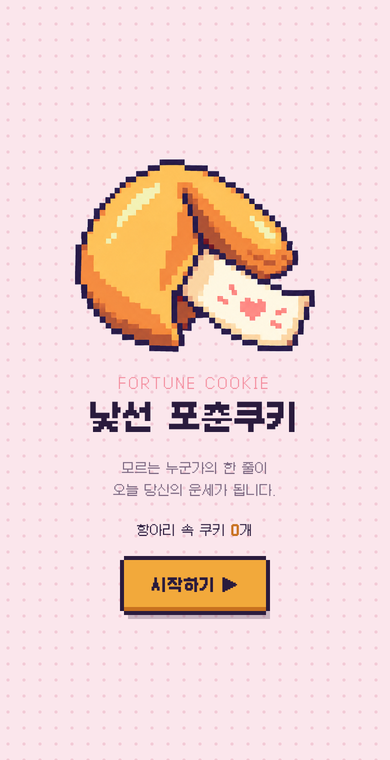
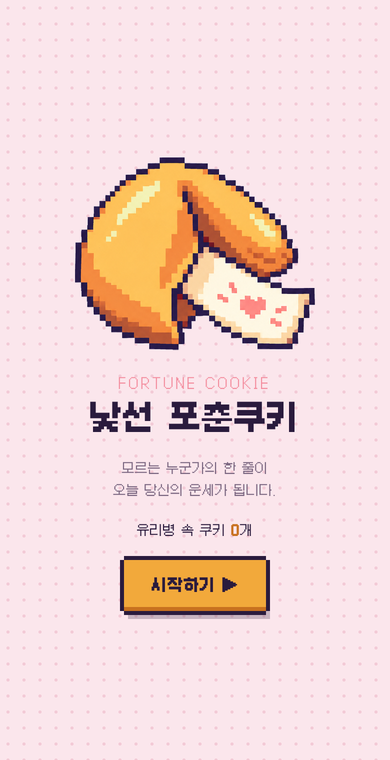
'항아리'를 '유리병'으로 용어 변경 (화면, API 주석, README, 스크린샷)
Claude-Session: https://claude.ai/code/session_019H48sgWEPCeJ89SP3p48pL

Changed region(s): [[0.1846, 0.1816, 0.8, 0.4842], [0.3385, 0.6658, 0.4615, 0.7263], [0.2769, 0.3026, 0.3077, 0.3329]]

diff --git a/index.html b/index.html
@@ -154,7 +154,7 @@ textarea::placeholder{color:#B7A6BB}
     <img class="cookie-img bob" src="assets/cookie.png" alt="쪽지가 삐져나온 포춘쿠키">
     <h1 id="t0"><small>FORTUNE COOKIE</small>낯선 포춘쿠키</h1>
     <p class="muted">모르는 누군가의 한 줄이<br>오늘 당신의 운세가 됩니다.</p>
-    <p class="jar">항아리 속 쿠키 <b id="jarCount">–</b>개</p>
+    <p class="jar">유리병 속 쿠키 <b id="jarCount">–</b>개</p>
     <button class="btn" id="start">시작하기 ▶</button>
   </section>
 
@@ -176,21 +176,21 @@ textarea::placeholder{color:#B7A6BB}
     <button class="btn" id="put" disabled>쿠키에 넣기</button>
   </section>
 
-  <!-- 1.5 항아리 -->
+  <!-- 1.5 유리병 -->
   <section class="screen" id="sJ" hidden aria-labelledby="tJ">
-    <h2 id="tJ">항아리에 쏙!</h2>
+    <h2 id="tJ">유리병에 쏙!</h2>
     <div class="jar-stage" id="jarStage">
-      <img class="jar-img" src="assets/jar.png" alt="포춘쿠키가 가득 든 유리 항아리">
+      <img class="jar-img" src="assets/jar.png" alt="포춘쿠키가 가득 든 유리병">
       <img class="drop" src="assets/cookie.png" alt="">
     </div>
-    <p class="mixing">항아리 속 쿠키 <b id="jarCount2">–</b>개<br>모르는 사람들의 쿠키와 섞는 중…</p>
+    <p class="mixing">유리병 속 쿠키 <b id="jarCount2">–</b>개<br>모르는 사람들의 쿠키와 섞는 중…</p>
   </section>
 
   <!-- 1.7 깰 쿠키 없음 -->
   <section class="screen" id="sE" hidden aria-labelledby="tE">
     <img class="empty-img" src="assets/cookie.png" alt="">
     <h2 id="tE">아직 깰 포춘쿠키가 없어요</h2>
-    <p class="empty-note">항아리에 있는 쿠키가 모두 내가 넣은 쿠키예요.<br>다른 사람이 한 줄을 넣으면 깰 수 있어요.</p>
+    <p class="empty-note">유리병에 있는 쿠키가 모두 내가 넣은 쿠키예요.<br>다른 사람이 한 줄을 넣으면 깰 수 있어요.</p>
     <p class="msg" id="emptyMsg" role="status"></p>
     <div class="actions">
       <button class="btn sub" id="back">돌아가기</button>
@@ -295,7 +295,7 @@ textarea::placeholder{color:#B7A6BB}
       justPut=d.id; if(d.count!=null) setJar(d.count);
     }catch(e){
       put.disabled=false;
-      $('putMsg').textContent = e && e.error==='jar_full' ? '항아리가 가득 찼어요.' : '넣지 못했어요. 인터넷 연결을 확인하고 다시 눌러 주세요.';
+      $('putMsg').textContent = e && e.error==='jar_full' ? '유리병이 가득 찼어요.' : '넣지 못했어요. 인터넷 연결을 확인하고 다시 눌러 주세요.';
       return;
     }
     line.value=''; $('count').textContent='0 / 100'; $('putMsg').textContent='';
@@ -420,7 +420,7 @@ textarea::placeholder{color:#B7A6BB}
     catch(e){ busy=false; taps=2; $('taps').children[2].classList.remove('on'); $('crackHint').textContent='꺼내지 못했어요. 한 번 더 두드려 주세요.'; return; }
     if(pick.empty){
       busy=false; taps=2; $('taps').children[2].classList.remove('on'); cookie.classList.add('shake2');
-      $('crackHint').textContent='항아리에 아직 다른 사람의 쿠키가 없어요. 다음 사람이 넣고 나면 다시 두드려 주세요.'; $('actions').hidden=false;
+      $('crackHint').textContent='유리병에 아직 다른 사람의 쿠키가 없어요. 다음 사람이 넣고 나면 다시 두드려 주세요.'; $('actions').hidden=false;
       return;
     }
     seen.push(pick.id);
@@ -436,7 +436,7 @@ textarea::placeholder{color:#B7A6BB}
 
   $('back').addEventListener('click',()=>{ resetCrack(); show(0); if(store===apiStore) apiStore.count().then(setJar).catch(()=>{}); });
   $('recheck').addEventListener('click',async()=>{
-    const b=$('recheck'); b.disabled=true; $('emptyMsg').textContent='항아리를 다시 뒤적이는 중…';
+    const b=$('recheck'); b.disabled=true; $('emptyMsg').textContent='유리병을 다시 뒤적이는 중…';
     let p=null; try{ p=await store.draw(justPut,seen); }catch(e){}
     b.disabled=false;
     if(!p){ $('emptyMsg').textContent='확인하지 못했어요. 인터넷 연결을 확인하고 다시 눌러 주세요.'; return; }

diff --git a/api/cookies.js b/api/cookies.js
@@ -20,7 +20,7 @@ export default async function handler(req, res) {
   }
 
   try {
-    // 항아리 속 쿠키 개수
+    // 유리병 속 쿠키 개수
     if (req.method === "GET" && !req.query.draw) {
       const count = await redis.llen(KEY);
       return res.status(200).json({ count });

diff --git a/README.md b/README.md
@@ -4,7 +4,7 @@
 
 **인터랙티브 미디어 창작 · 우연놀이(알레아) 참여 작품**
 
-관객은 모르는 다음 사람에게 건넬 한 줄을 쿠키에 넣고, 항아리에서 다른 누군가가 넣은 한 줄을 무작위로 꺼내 깨 봅니다. 누가 썼는지는 끝까지 알 수 없습니다.
+관객은 모르는 다음 사람에게 건넬 한 줄을 쿠키에 넣고, 유리병에서 다른 누군가가 넣은 한 줄을 무작위로 꺼내 깨 봅니다. 누가 썼는지는 끝까지 알 수 없습니다.
 
 🔗 **https://fortune-cookie-peach.vercel.app**
 
@@ -12,7 +12,7 @@
   <tr>
     <td align="center"><img src="docs/01-start.png" width="220" alt="시작 화면"><br><sub>1. 시작</sub></td>
     <td align="center"><img src="docs/02-write.png" width="220" alt="한 줄 쓰기 화면"><br><sub>2. 한 줄 쓰기</sub></td>
-    <td align="center"><img src="docs/03-jar.png" width="220" alt="항아리 화면"><br><sub>3. 항아리에 쏙</sub></td>
+    <td align="center"><img src="docs/03-jar.png" width="220" alt="유리병 화면"><br><sub>3. 유리병에 쏙</sub></td>
   </tr>
   <tr>
     <td align="center"><img src="docs/04-crack.png" width="220" alt="쿠키 깨기 화면"><br><sub>4. 쿠키 깨기</sub></td>
@@ -37,11 +37,11 @@
 |---|---|---|
 | 1 | 시작 | 통통 튀는 포춘쿠키를 보고 **시작하기**를 누릅니다. |
 | 2 | 한 줄 쓰기 | 모르는 다음 사람에게 건넬 한 줄(최대 100자)을 적고 **쿠키에 넣기**를 누릅니다. |
-| 3 | 항아리 | 내 쿠키가 항아리에 쏙 떨어지며 다른 사람들의 쿠키와 섞입니다. (자동으로 넘어감) |
+| 3 | 유리병 | 내 쿠키가 유리병에 쏙 떨어지며 다른 사람들의 쿠키와 섞입니다. (자동으로 넘어감) |
 | 4 | 쿠키 깨기 | 쿠키를 **세 번 톡톡** 두드립니다. 두드릴 때마다 흔들리며 금이 갑니다. |
 | 5 | 쪽지 | 쿠키가 갈라지며 다른 사람의 한 줄이 담긴 쪽지가 나옵니다. |
 
-> 항아리에 내 쿠키밖에 없으면 3단계 다음에 **"아직 깰 포춘쿠키가 없어요"** 화면이 나옵니다.
+> 유리병에 내 쿠키밖에 없으면 3단계 다음에 **"아직 깰 포춘쿠키가 없어요"** 화면이 나옵니다.
 > **돌아가기**로 시작 화면에 가거나, 다른 사람이 쿠키를 넣은 뒤 **다시 확인하기**를 누르면 바로 깨기 화면으로 넘어갑니다.
 
 ### 규칙
@@ -52,9 +52,9 @@
 
 ## 주요 기능
 
-- **공용 항아리**: 접속한 모든 사람의 쿠키가 하나의 항아리에 모입니다. 시작 화면에 항아리 속 쿠키 수가 표시됩니다.
+- **공용 유리병**: 접속한 모든 사람의 쿠키가 하나의 유리병에 모입니다. 시작 화면에 유리병 속 쿠키 수가 표시됩니다.
 - **내 쿠키 제외**: 내가 넣은 한 줄은 나에게 뽑히지 않습니다. (아래 [사용자 구분 방식](#사용자-구분-방식) 참고)
-- **미리 확인**: 항아리 장면이 나오는 동안 깰 쿠키가 있는지 미리 확인해서, 없으면 깨기 전에 안내 화면을 보여줍니다.
+- **미리 확인**: 유리병 장면이 나오는 동안 깰 쿠키가 있는지 미리 확인해서, 없으면 깨기 전에 안내 화면을 보여줍니다.
 - **중복 줄이기**: 아직 받지 않은 쪽지를 먼저 뽑아서, 같은 쪽지가 반복해서 나오는 일을 줄입니다.
 - **쪽지 정보**: 받은 한 줄과 함께, 실제 포춘쿠키 쪽지처럼 무작위로 뽑은 행운의 숫자 6개(1~45)와 쿠키 번호(No.001)가 찍힙니다.
 - **픽셀 연출**: 쿠키 흔들림, 부스러기, 깨질 때 터지는 하트·별·클로버·반짝이 아이콘.
@@ -95,13 +95,13 @@
 
 ```
 fortune-cookie/
-├── index.html              # 화면 전체 (시작 → 쓰기 → 항아리 → 깨기 / 깰 쿠키 없음)
+├── index.html              # 화면 전체 (시작 → 쓰기 → 유리병 → 깨기 / 깰 쿠키 없음)
 ├── api/
 │   └── cookies.js          # 쿠키 저장 · 개수 · 무작위 뽑기 API
 ├── assets/
 │   ├── cookie.png          # 포춘쿠키 픽셀 이미지
 │   ├── cookie-broken.png   # 깨진 포춘쿠키 이미지
-│   ├── jar.png             # 쿠키 항아리 이미지
+│   ├── jar.png             # 쿠키 유리병 이미지
 │   ├── icon-*.png          # 장식 아이콘 (하트 · 별 · 클로버 · 반짝이)
 │   ├── favicon*.png        # 파비콘 · 홈 화면 아이콘
 │   ├── og.png              # 링크 미리보기 이미지 (1200×630)
@@ -117,7 +117,7 @@ fortune-cookie/
 
 | 메서드 | 요청 | 응답 | 설명 |
 |---|---|---|---|
-| `GET` | — | `{ count }` | 항아리 속 쿠키 수 |
+| `GET` | — | `{ count }` | 유리병 속 쿠키 수 |
 | `POST` | `{ text, v }` | `{ id, count }` | 한 줄 넣기 (`text` 2~100자, `v` 방문자 ID) |
 | `GET` | `?draw=1&v=…&exclude=…&seen=…&shared=0` | `{ id, text, no, count }` 또는 `{ empty: true }` | 무작위로 하나 꺼내기 |
 
@@ -128,7 +128,7 @@ fortune-cookie/
 
 ## 데이터베이스 설정
 
-쿠키는 **Upstash Redis**에 저장됩니다. Redis는 데이터를 빠르게 저장하고 꺼내는 데이터베이스로, 이 작품에서는 모두가 함께 쓰는 **"항아리"** 역할을 합니다. 화면은 각자의 기기에서 따로 열리기 때문에, 쿠키를 모아 둘 공동 보관함이 서버에 따로 필요합니다.
+쿠키는 **Upstash Redis**에 저장됩니다. Redis는 데이터를 빠르게 저장하고 꺼내는 데이터베이스로, 이 작품에서는 모두가 함께 쓰는 **"유리병"** 역할을 합니다. 화면은 각자의 기기에서 따로 열리기 때문에, 쿠키를 모아 둘 공동 보관함이 서버에 따로 필요합니다.
 
 | 항목 | 값 |
 |---|---|
@@ -150,7 +150,7 @@ fortune-cookie/
 
 ### 넣은 쿠키가 다음 날 0개로 보이는 문제
 
-**증상**: 휴대폰으로 쿠키를 넣었는데, 다음 날 다시 열면 항아리 속 쿠키가 0개로 표시됐습니다.
+**증상**: 휴대폰으로 쿠키를 넣었는데, 다음 날 다시 열면 유리병 속 쿠키가 0개로 표시됐습니다.
 
 **원인**: Vercel 프로젝트에 데이터베이스가 연결되지 않아 `/api/cookies`가 `503 storage_not_configured`를 돌려주고 있었습니다. 이때 화면은 멈추지 않도록 **로컬 모드**로 동작하는데, 로컬 모드의 쿠키는 그 기기의 브라우저 메모리에만 잠깐 담기기 때문에 새로고침하면 사라지고 다른 사람과도 공유되지 않습니다.
 
